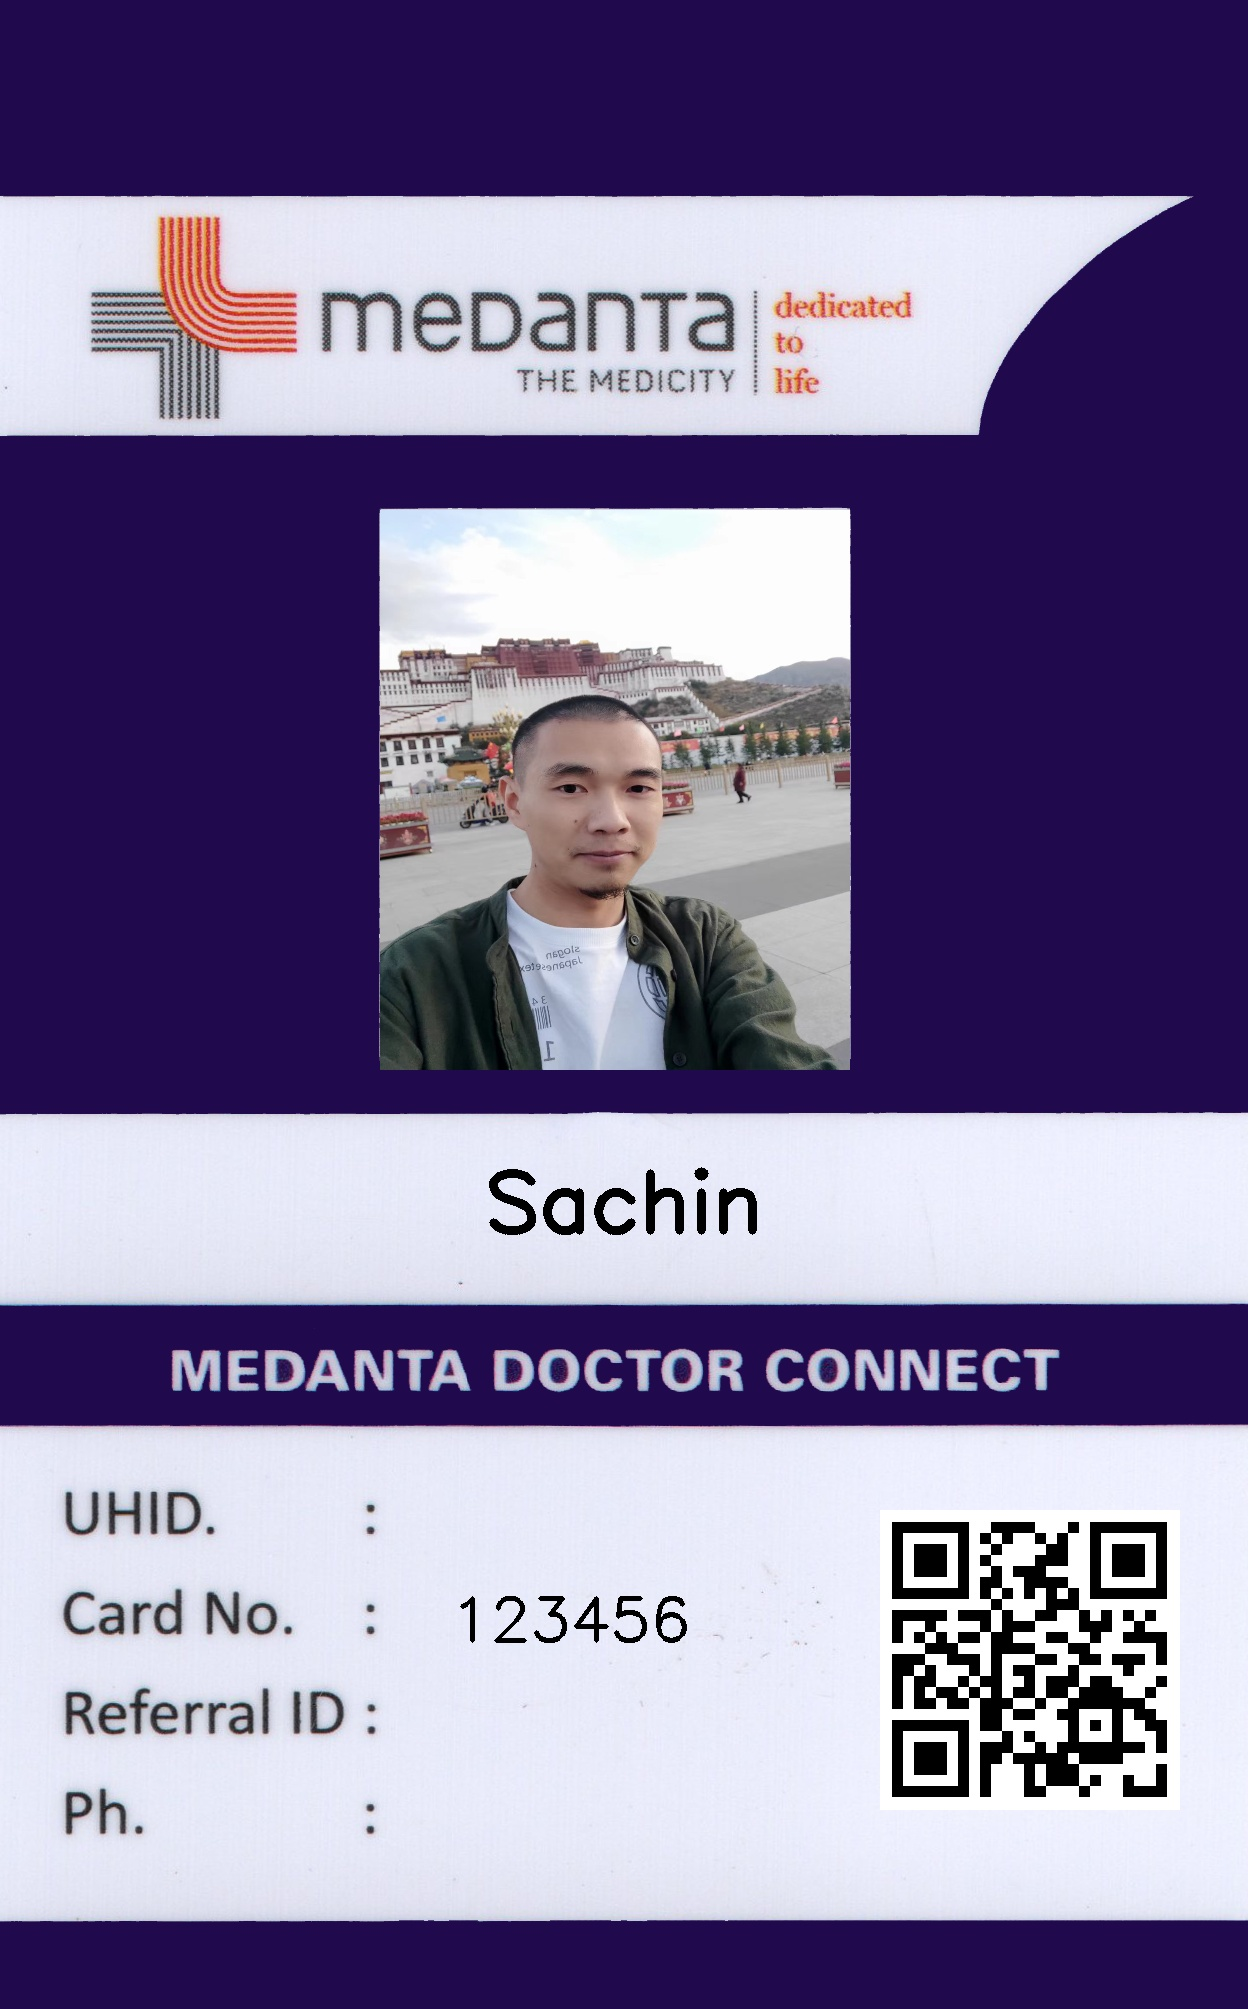
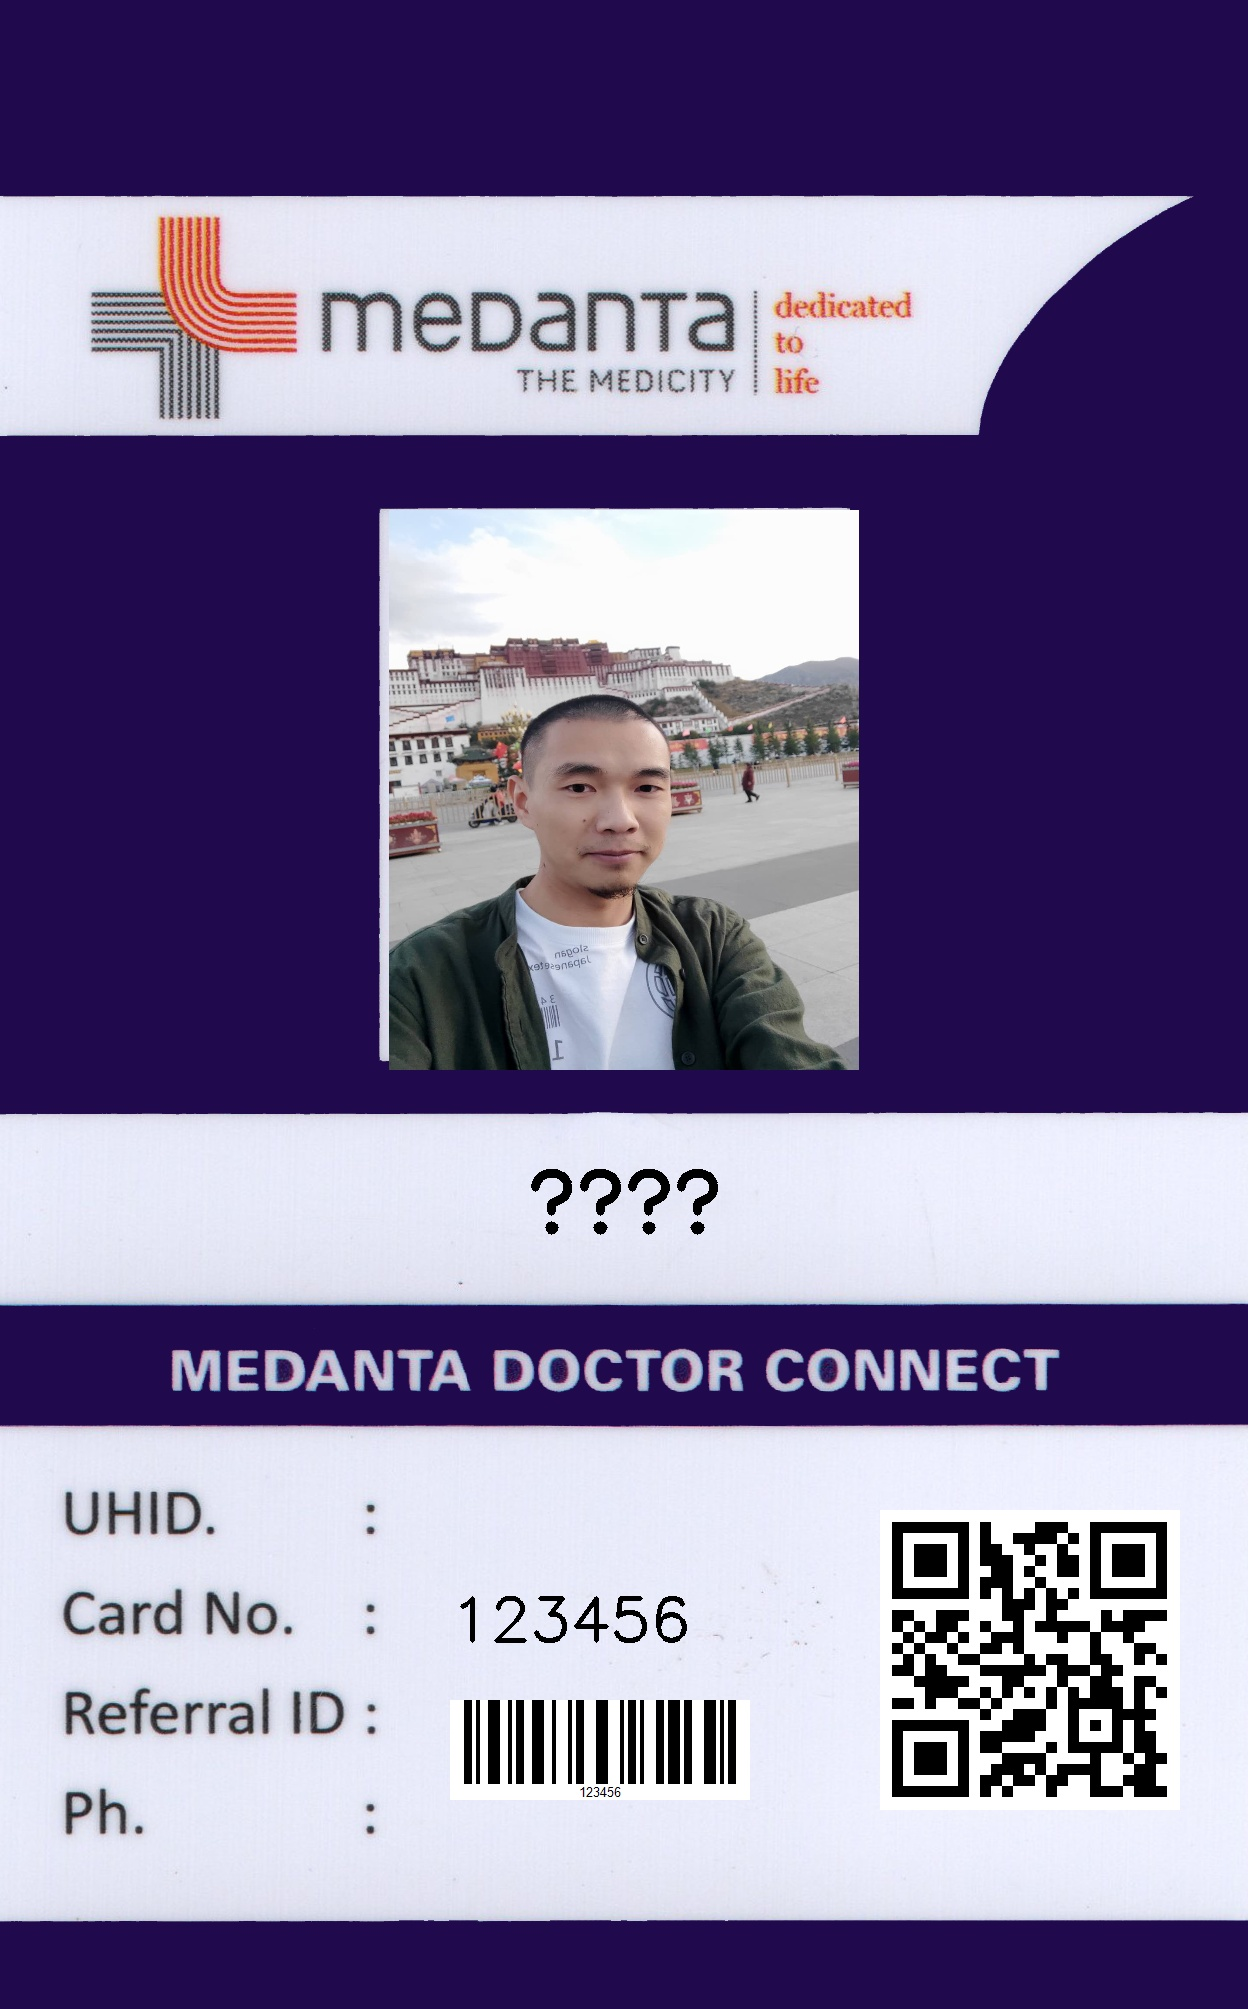
barcode

diff --git a/WebApiFaceCompare/Controllers/FaceController.cs b/WebApiFaceCompare/Controllers/FaceController.cs
@@ -109,27 +109,61 @@ namespace WebApiFaceCompare.Controllers
         {
             try
             {
-                var photo = Mat.FromStream(image.OpenReadStream(), ImreadModes.Color).Resize(new OpenCvSharp.Size(470, 560));
+                using var photo = Mat.FromStream(image.OpenReadStream(), ImreadModes.Color).Resize(new OpenCvSharp.Size(470, 560));
 
-                var bgimg = Cv2.ImRead("Resource/MedantaIdCardFront.PNG");
-                var roi = new Mat(bgimg, new Rect(new OpenCvSharp.Point(380, 510), photo.Size()));
+                 var bgimg = Cv2.ImRead("Resource/MedantaIdCardFront.PNG");
+                using var roi = new Mat(bgimg, new Rect(new OpenCvSharp.Point(bgimg.Width / 2 - photo.Width / 2, 510), photo.Size()));
                 photo.CopyTo(roi);
 
 
-                var codewrit = new ZXing.BarcodeWriter();
-                codewrit.Format = ZXing.BarcodeFormat.QR_CODE;
-                codewrit.Options.Margin = 1;
-                codewrit.Options.Height = 300;
-                codewrit.Options.Width = 300;
+                var codewrit = new ZXing.BarcodeWriter
+                {
+                    Format = ZXing.BarcodeFormat.QR_CODE,
+                    Options = new ZXing.Common.EncodingOptions()
+                    {
+                        Margin = 1,
+                        Height = 300,
+                        Width = 300
+                    }
+                };
 
-                var qr = codewrit.Write(new { name, code }.ToString()).ToMat();
-                var qrroi = new Mat(bgimg, new Rect(new OpenCvSharp.Point(880, 1510), qr.Size()));
+                using var qr = codewrit.Write(new { name, code }.ToString()).ToMat();
+                using var qrroi = new Mat(bgimg, new Rect(new OpenCvSharp.Point(880, 1510), qr.Size()));
                 qr.CopyTo(qrroi);
+
+
+
+                var barwrit = new ZXing.BarcodeWriter
+                {
+                    Format = ZXing.BarcodeFormat.CODE_128,
+                    Options = new ZXing.Common.EncodingOptions()
+                    {
+                        Margin = 1,
+                        Height = 100,
+                        Width = 300
+                    }
+                };
+
+                using var bar = barwrit.Write(code).ToMat();
+                using var barroi = new Mat(bgimg, new Rect(new OpenCvSharp.Point(450, 1700), bar.Size()));
+                bar.CopyTo(barroi);
+
+
                 var tsize = Cv2.GetTextSize(name, HersheyFonts.HersheySimplex, 2.7, 1, out int basel);
                 bgimg.PutText(name, new OpenCvSharp.Point(bgimg.Width / 2 - tsize.Width / 2, 1230), HersheyFonts.HersheySimplex, 2.7, new Scalar(0, 0, 0), 8);
                 bgimg.PutText(code, new OpenCvSharp.Point(450, 1640), HersheyFonts.HersheySimplex, 2, new Scalar(0, 0, 0), 4);
+
                 var imgurl = string.Format("wwwroot/WorkCard/{0}.jpg", code);
                 Cv2.ImWrite(imgurl, bgimg);
+
+                //Task.Run(() =>
+                //{
+                //    while (true)
+                //    {
+                //        Cv2.ImShow("img32", bgimg.Resize(new OpenCvSharp.Size(bgimg.Width/4, bgimg.Height/4)));
+                //        Cv2.WaitKey(100);
+                //    }
+                //});
 
                 return string.Format("{0}{1}", Request.Host.Value, imgurl.TrimStart("wwwroot".ToArray()));
             }
